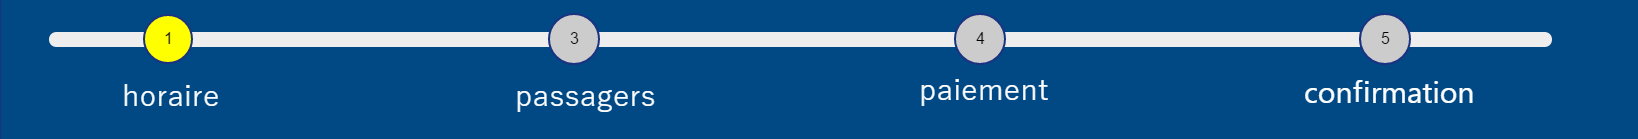
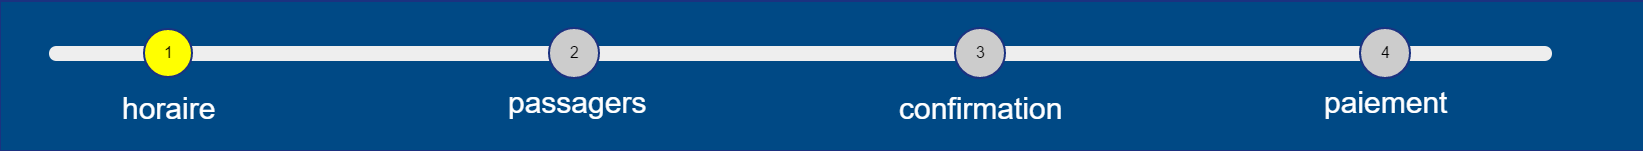
modification barre d avancement

diff --git a/page/reservation_confirmation.php b/page/reservation_confirmation.php
@@ -1,7 +1,7 @@
 <body id="top" style="background-color: #d3d3d3">
 <div class="row">
     <div class="col-sm-12 col-xs-0">
-        <img src="resource/image/avancement1.PNG" width="100%">
+        <img src="resource/image/avancement4.PNG" width="100%">
     </div>
 </div>
 <div class="container">

diff --git a/page/reservation_paiement.php b/page/reservation_paiement.php
@@ -1,7 +1,7 @@
 <body id="top" style="background-color: #d3d3d3">
 <div class="row">
     <div class="col-sm-12 col-xs-0">
-        <img src="resource/image/avancement1.PNG" width="100%">
+        <img src="resource/image/avancement3.PNG" width="100%">
     </div>
 </div>
 <div class="container">

diff --git a/page/reservation_passagers.php b/page/reservation_passagers.php
@@ -1,7 +1,7 @@
 <body id="top" style="background-color: #d3d3d3">
 <div class="row">
     <div class="col-sm-12 col-xs-0">
-        <img src="resource/image/avancement1.PNG" width="100%">
+        <img src="resource/image/avancement2.PNG" width="100%">
     </div>
 </div>
 <div class="container">
